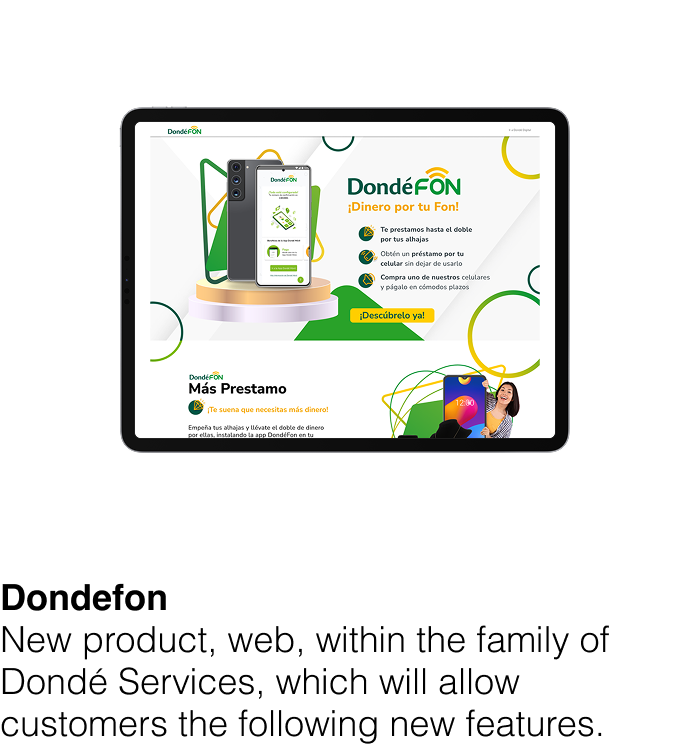
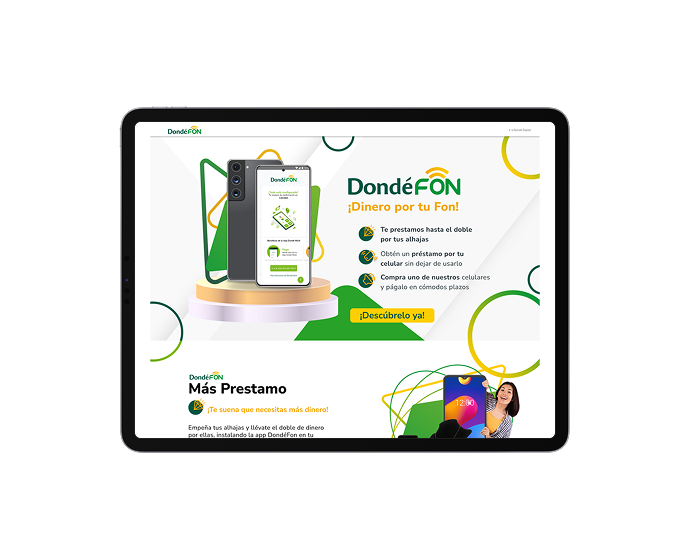
Update dondefon card in cases

diff --git a/cases.html b/cases.html
@@ -294,12 +294,12 @@
 
       <!-- DondéFon -->
       <a href="dondefon.html" class="case-item">
-        <div class="case-thumb">
+        <div class="case-thumb case-thumb--bleed">
           <img src="assets/cases/dondefon/dondefon main.png" alt="DondéFon" />
         </div>
         <div class="case-meta">
           <h3 class="case-title">DondéFon</h3>
-          <p class="case-desc">New product, brand identity, UX research & app store assets.</p>
+          <p class="case-desc">New product, brand identity, UX research, app store assets, web design and CRM.</p>
         </div>
       </a>
 
